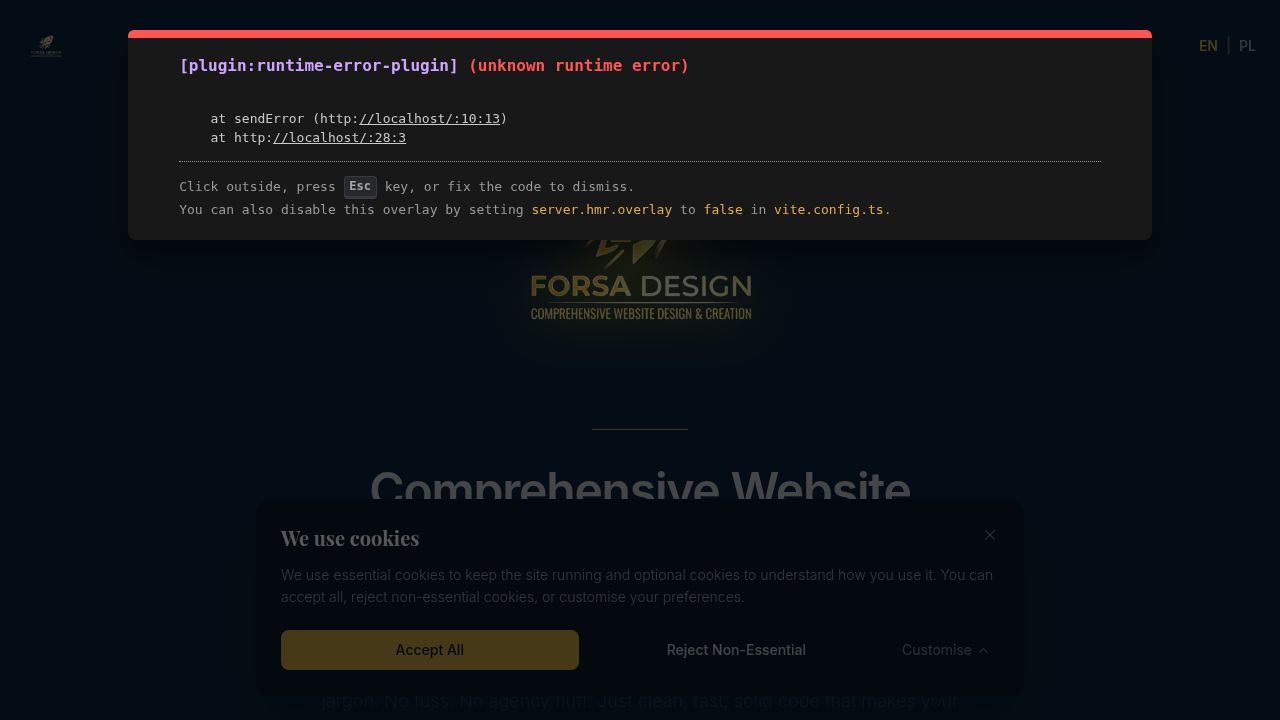
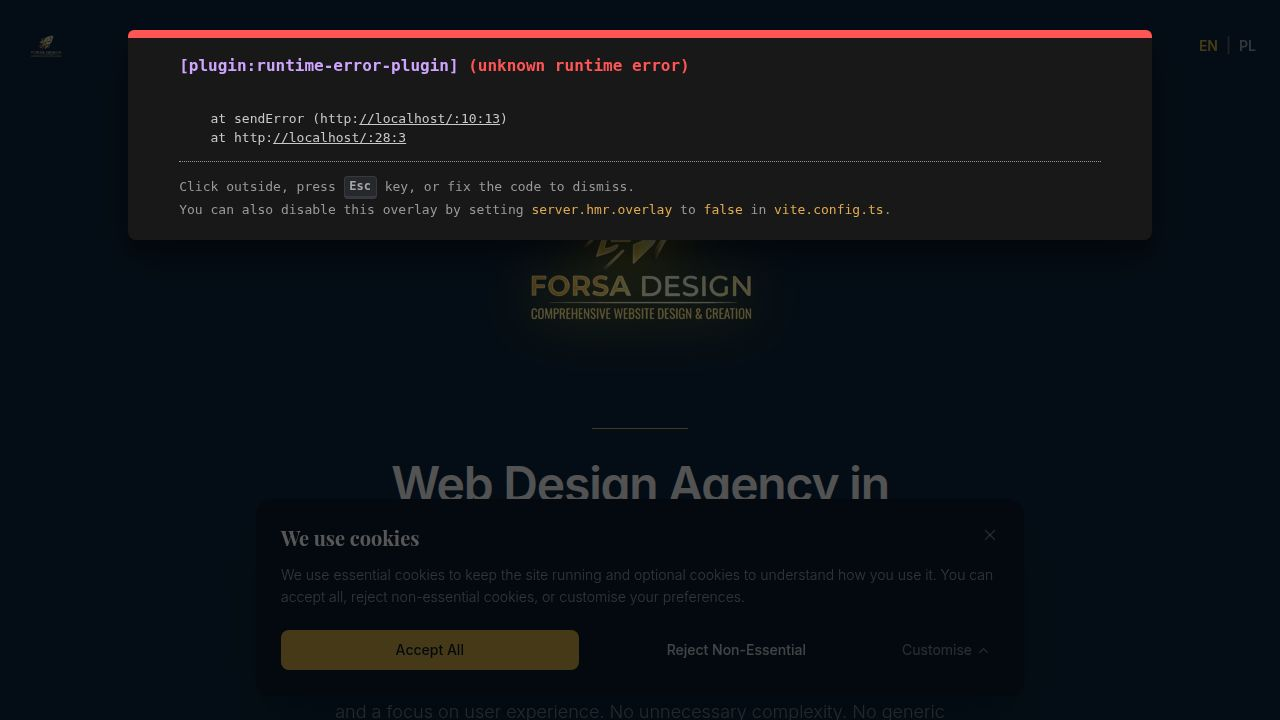
Improve website loading speed by optimizing image assets
Optimize logo image by converting to WebP format and refactoring asset loading with a picture element. Implement code splitting for React and Framer Motion dependencies to improve caching. Add preconnect and dns-prefetch for critical third-party resources.

Replit-Commit-Author: Agent
Replit-Commit-Session-Id: 54966c5f-119f-4a1b-b4c9-733061f2ce5f
Replit-Commit-Checkpoint-Type: full_checkpoint
Replit-Commit-Event-Id: fe734b39-dbe6-41b7-ad8e-7f27dee935e9
Replit-Commit-Screenshot-Url: https://storage.googleapis.com/screenshot-production-us-central1/0aa85256-57de-4ead-95be-7bfcd3dbae86/54966c5f-119f-4a1b-b4c9-733061f2ce5f/cMk1jqX
Replit-Helium-Checkpoint-Created: true

Changed region(s): [[0.2812, 0.6417, 0.7188, 0.7028]]

diff --git a/artifacts/forsa-design/src/components/Hero.tsx b/artifacts/forsa-design/src/components/Hero.tsx
@@ -1,6 +1,7 @@
 import { useLanguage } from "@/contexts/LanguageContext";
 import { motion, type Variants } from "framer-motion";
-import logo from "../assets/forsa-logo.png";
+import logoWebP from "../assets/forsa-logo.webp";
+import logoPng from "../assets/forsa-logo-sm.png";
 
 export default function Hero() {
   const { t } = useLanguage();
@@ -80,9 +81,13 @@ export default function Hero() {
             </motion.div>
 
             {/* Rocket: smooth cosine brightness — 8 equal 45° steps, peak at front (t=0.125), darkest at back (t=0.625) */}
-            <motion.img
-              src={logo}
+            <picture>
+              <source srcSet={logoWebP} type="image/webp" />
+              <motion.img
+              src={logoPng}
               alt="Forsa Design"
+              width={640}
+              height={640}
               className="w-56 md:w-72 lg:w-80 h-auto object-contain block"
               animate={{
                 filter: [
@@ -113,6 +118,7 @@ export default function Hero() {
                 times: [0, 0.125, 0.25, 0.375, 0.5, 0.625, 0.75, 0.875, 1],
               }}
             />
+            </picture>
           </motion.div>
 
           <motion.div variants={itemVariants} className="w-24 h-px bg-primary mb-8 mt-6" />

diff --git a/artifacts/forsa-design/vite.config.ts b/artifacts/forsa-design/vite.config.ts
@@ -50,6 +50,14 @@ export default defineConfig({
   build: {
     outDir: path.resolve(import.meta.dirname, "dist/public"),
     emptyOutDir: true,
+    rollupOptions: {
+      output: {
+        manualChunks: {
+          "vendor-react": ["react", "react-dom"],
+          "vendor-motion": ["framer-motion"],
+        },
+      },
+    },
   },
   server: {
     port,

diff --git a/artifacts/forsa-design/index.html b/artifacts/forsa-design/index.html
@@ -184,6 +184,8 @@
         "knowsAbout": ["Web Design", "Web Development", "E-commerce", "SEO", "Brand Strategy"]
       }
     </script>
+    <link rel="preconnect" href="https://challenges.cloudflare.com" />
+    <link rel="dns-prefetch" href="https://www.googletagmanager.com" />
     <link rel="preconnect" href="https://fonts.googleapis.com" />
     <link rel="preconnect" href="https://fonts.gstatic.com" crossorigin />
     <link